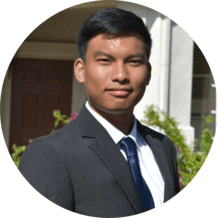
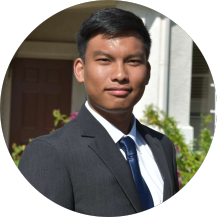
responsive image test

diff --git a/home.html b/home.html
@@ -30,7 +30,7 @@
                     <!-- <source media="(min-width:1024px)" type ="image/png" srcset="images/toobright.png" >
                     <source media="(max-width:1023px)" type="image/png" srcset="images/toobright50percent.png">
                     <source media="(max-width:450px)" type="image/png" srcset="images/toobright25percent.png"> -->
-                    <img  width="400" height="400" srcset="images/toobright50percent.png 400w, images/toobright.png 800w" sizes="(max-width: 1279px) 480px, 800px " src="images/toobright.png" alt="picture of mico" class="home-image-responsive">
+                    <img srcset="images/toobright25percent.png 250w, images/toobright50percent.png 500w, images/toobright.png 1000w" sizes="(max-width: 500px) 240px, (max-width: 800px) 480px, 700px " src="images/toobright.png" alt="picture of mico" class="home-image-responsive">
                 </picture>
                     <h2 id="home-name">Mico Guinto</h2><br>
                     <h2 id="home-university">University of California</h2><br>

diff --git a/main.css b/main.css
@@ -28,7 +28,7 @@ body{
     66% {color: var(--triton-yellow);}
 }
 
-@media screen and (max-width: 1279px){
+@media screen and (max-width: 800px){
     /* burger menu starts */
 
     .active{
@@ -39,7 +39,7 @@ body{
 
     li > a.menu{
         padding: 0.5em;
-        align-items: ;
+        /* align-items: ; */
         box-sizing: border-box;
         display: block;
         width: 10%;
@@ -151,7 +151,7 @@ body{
     /* gallery */
 }
 
-@media screen and (min-width: 1280px){
+@media screen and (min-width: 801px){
 
     /* navbar */
 
